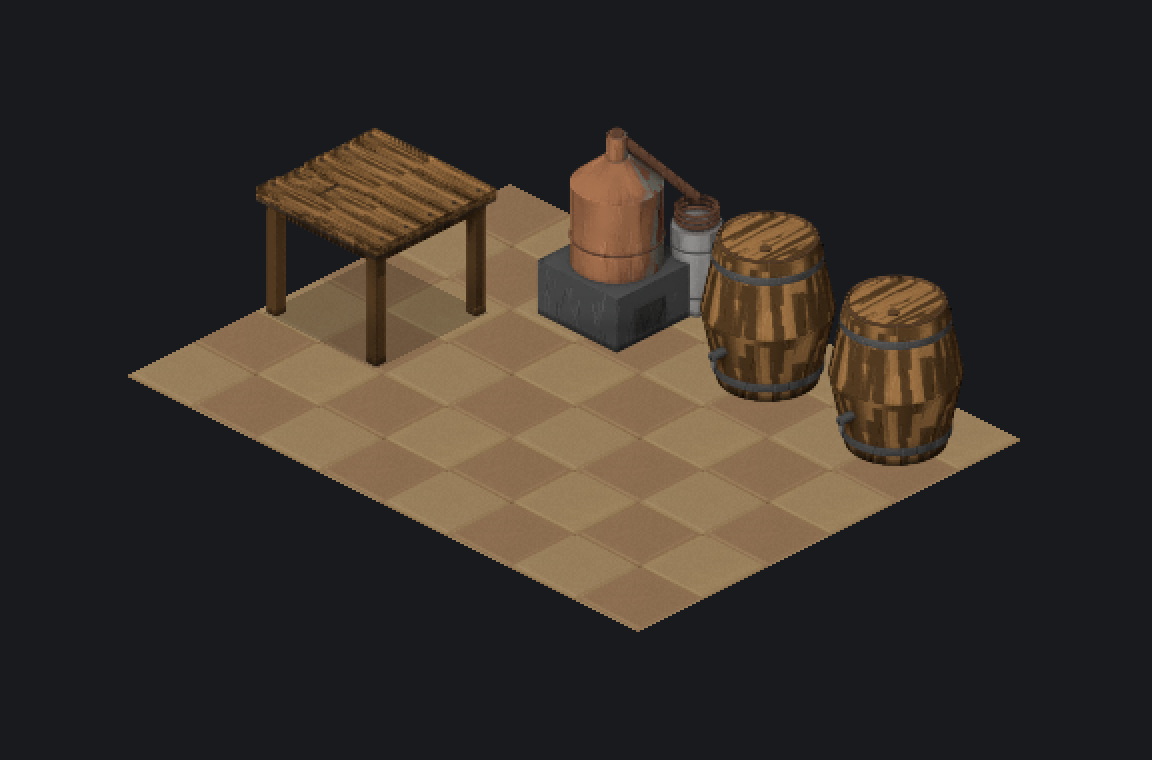
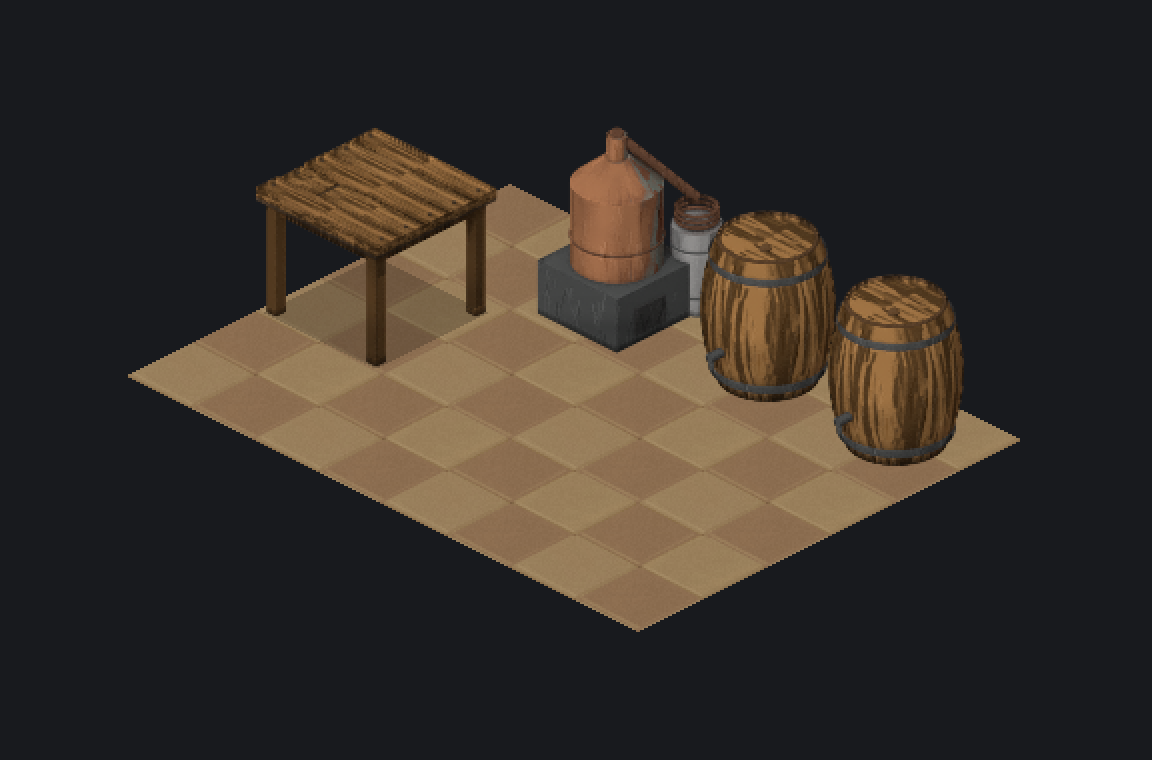
hb_barrel: lathe the bow instead of stacking cones
Two truncated cones kinked at the bilge -- separate meshes cannot share
smoothing and the silhouette broke into an angle. The body is now one lathed
mesh with a parabolic stave profile (nine rings). Two traps fixed with it:
the hoop-radius helper still used the linear cone formula and buried the
hoops inside the bow, and the lathed mesh has no UVs so its wood takes the
class's BOX projection (the UV-projected material sampled one texel and
rendered nearly blank).

Changed region(s): [[0.5938, 0.2724, 0.8438, 0.6053]]

diff --git a/examples/hb_barrel.py b/examples/hb_barrel.py
@@ -44,14 +44,19 @@ BILGE_R = 0.375
 
 
 def _r_at(z: float) -> float:
-    """Stave radius at height z, for hoops and fittings that follow the bow."""
-    half = BARREL_H / 2
-    t = z / half if z <= half else (BARREL_H - z) / half
-    return HEAD_R + (BILGE_R - HEAD_R) * t
+    """Stave radius at height z -- the SAME parabola the lathed body uses.
+    (A linear two-cone formula left the hoops buried inside the bow.)"""
+    u = 2.0 * z / BARREL_H - 1.0
+    return BILGE_R - (BILGE_R - HEAD_R) * (u * u)
 
 
 def build_barrel() -> list[bpy.types.Object]:
     mats = wood_drum.wood_drum_materials()
+    # The lathed body has no UVs, so its wood takes the class's BOX projection
+    # (wood_drum's UV-projected body material sampled one texel and rendered
+    # nearly blank on this mesh).
+    body_mat = F.forge_material("hbbarrel_body", "wood", (0.405, 0.223, 0.075),
+                                texture_path=str(wood_drum.GRAIN_PATH))
     spigot_mat = F.forge_material("hbbarrel_spigot", "metal",
                                   (0.150, 0.152, 0.146))
     parts = []
@@ -71,17 +76,37 @@ def build_barrel() -> list[bpy.types.Object]:
         parts.append(obj)
         return obj
 
-    # The bowed body: lower cone flares head-to-bilge, upper cone narrows
-    # bilge-to-head.
-    half = BARREL_H / 2
-    bpy.ops.mesh.primitive_cone_add(vertices=48, radius1=HEAD_R,
-                                    radius2=BILGE_R, depth=half,
-                                    location=(0, 0, half / 2))
-    add("barrel_lower", mats["body"])
-    bpy.ops.mesh.primitive_cone_add(vertices=48, radius1=BILGE_R,
-                                    radius2=HEAD_R, depth=half,
-                                    location=(0, 0, half * 1.5))
-    add("barrel_upper", mats["body"])
+    # The bowed body: ONE lathed mesh with a parabolic stave profile. Two
+    # stacked cones put a hard kink at the bilge -- separate meshes cannot
+    # share smoothing, and the silhouette broke into an angle instead of a
+    # bow. Nine rings keep the curve smooth at sprite scale.
+    import bmesh
+    seg, rings = 48, 9
+    mesh = bpy.data.meshes.new("barrel_body")
+    bm = bmesh.new()
+    ring_verts = []
+    for k in range(rings):
+        z = BARREL_H * k / (rings - 1)
+        u = 2.0 * z / BARREL_H - 1.0
+        r = BILGE_R - (BILGE_R - HEAD_R) * (u * u)
+        ring_verts.append([bm.verts.new((r * math.cos(2 * math.pi * i / seg),
+                                         r * math.sin(2 * math.pi * i / seg),
+                                         z)) for i in range(seg)])
+    for a, b in zip(ring_verts, ring_verts[1:]):
+        for i in range(seg):
+            bm.faces.new((a[i], a[(i + 1) % seg],
+                          b[(i + 1) % seg], b[i]))
+    bm.faces.new(reversed(ring_verts[0]))
+    bm.faces.new(ring_verts[-1])
+    bm.to_mesh(mesh)
+    bm.free()
+    body = bpy.data.objects.new("barrel_body", mesh)
+    bpy.context.collection.objects.link(body)
+    bpy.context.view_layer.objects.active = body
+    body.select_set(True)
+    bpy.ops.object.shade_auto_smooth(angle=math.radians(40))
+    body.data.materials.append(body_mat)
+    parts.append(body)
 
     # Head: recessed lid inside a stave-end rim, the wood drum's top formula.
     bpy.ops.mesh.primitive_torus_add(major_radius=HEAD_R - 0.012,
